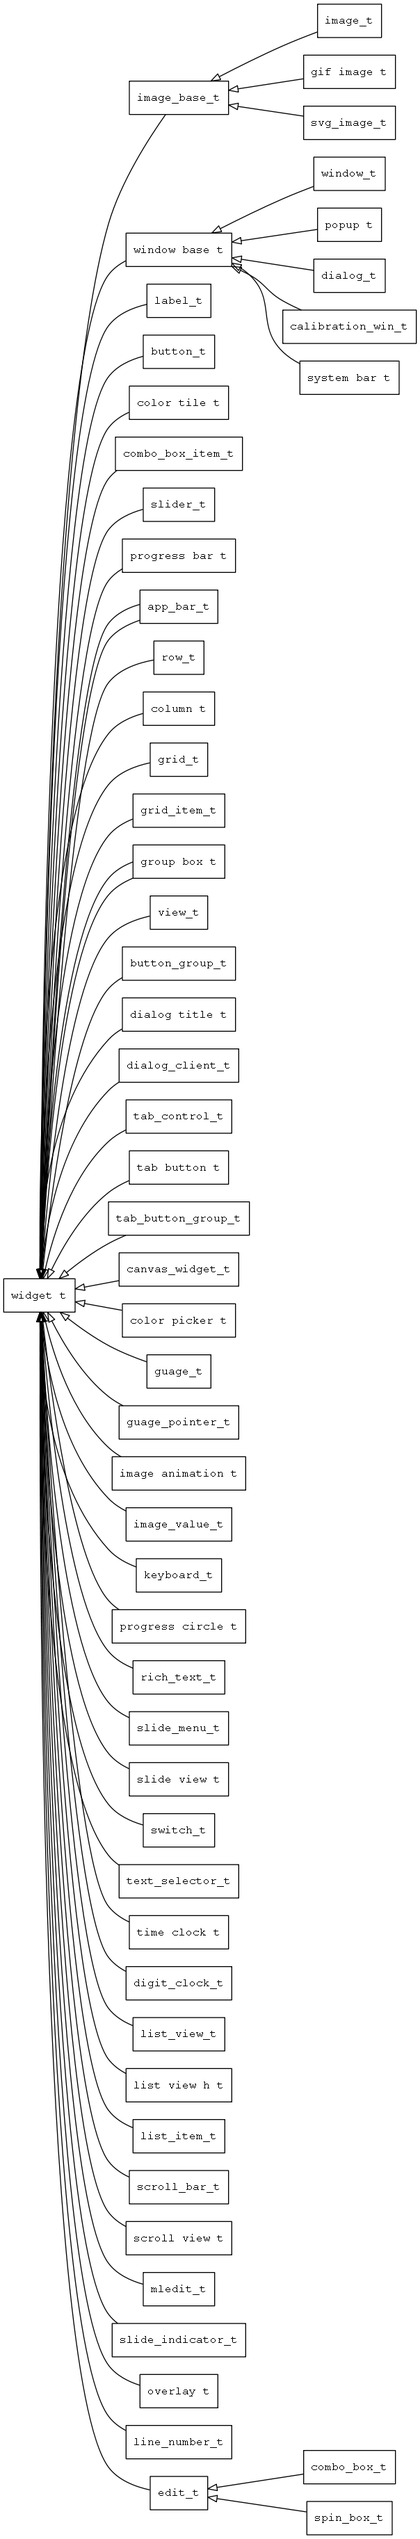
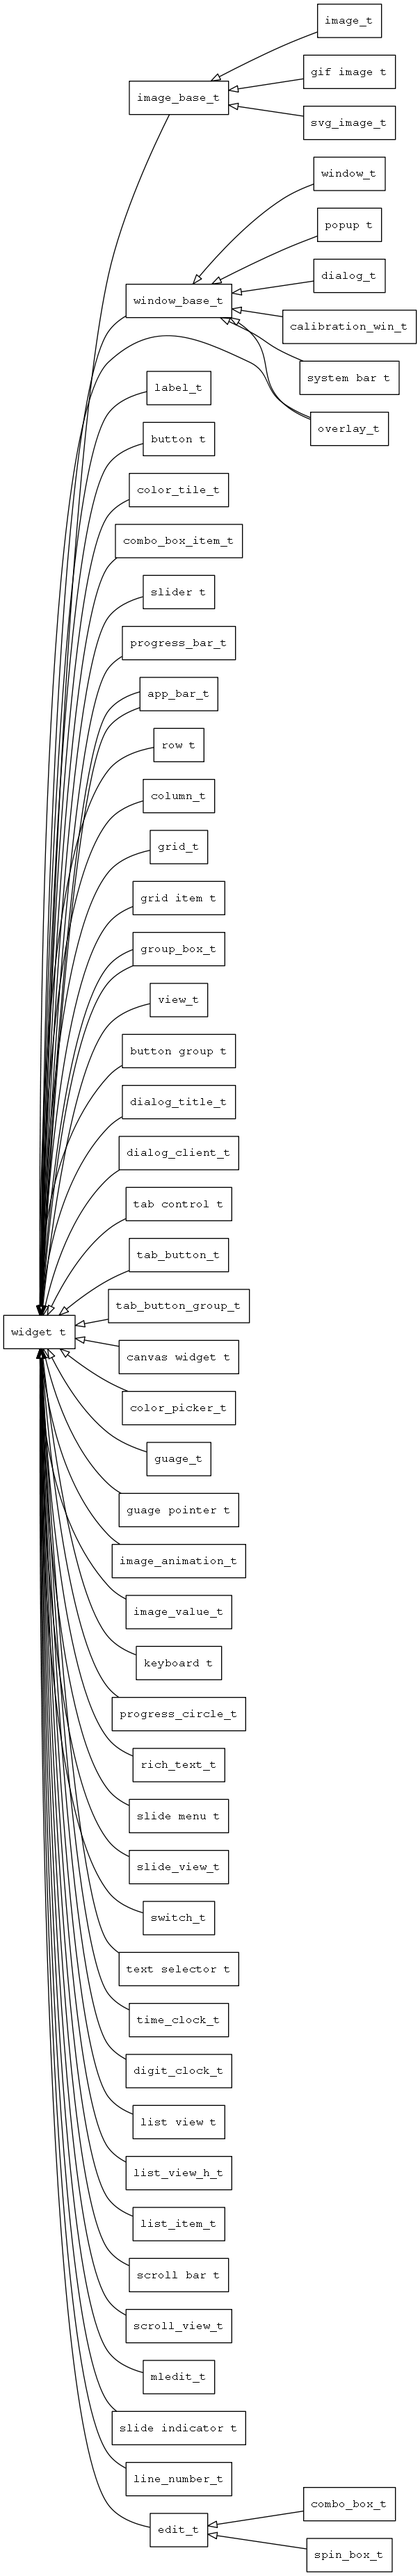
update docs

diff --git a/docs/manual.md b/docs/manual.md
@@ -20,6 +20,7 @@
 * [window](manual/window_t.md) 普通窗口。
 * [system\_bar](manual/system_bar_t.md) 系统状态窗口。
 * [calibration\_win](manual/calibration_win_t.md) 电阻屏校准窗口。
+* [overlay](manual/overlay_t.md) 悬浮窗口窗口。
 
 #### 基本控件
 * [button](manual/button_t.md) 按钮控件。
